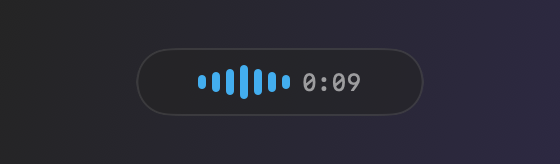
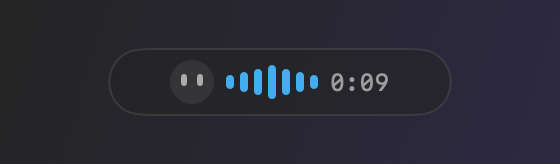
feat: 録音 HUD に話しかける相手の顔を出す
音声入力だと意識すると言い直しや文の途切れが増えるので、人に説明する
つもりで話せるよう、最小表示の左端に目だけの静的な顔を置く。状態や
声の大きさは示さず、設定でオフにできる。

Closes #80

Changed region(s): [[0.3036, 0.3963, 0.6982, 0.6098]]

diff --git a/Sources/RecordingHUDView.swift b/Sources/RecordingHUDView.swift
@@ -62,6 +62,9 @@ struct RecordingHUDView: View {
     // 停止・キャンセルはホバーで出す＝常時は場所を取らない。
     private var minimalContent: some View {
         HStack(spacing: 6) {
+            if model.showsListener {
+                ListenerFaceView()
+            }
             minimalIndicator
             // 11 → 13pt（Issue #191）→ 12pt（#195 の候補 A。13pt は «大きすぎる»）。
             // «12:34» の 5 文字でも折り返さないよう 1 行に固定し、収まらないときだけ少し縮める。
@@ -245,6 +248,37 @@ struct RecordingHUDView: View {
         .buttonStyle(.borderless)
         .help(help)
         .accessibilityLabel(help)
+    }
+}
+
+/// 最小表示の左端に置く «話しかける相手»（Issue #80）。
+///
+/// 音声入力だと意識すると、言い直しや文の途中の «。» が増える。顔が見えていると、人に
+/// 説明するつもりで文を組み立ててから話しやすくなる。**役目はそれだけ**なので、
+/// 状態も声の大きさも示さない——**動かさない・色を変えない**（#146〜#178 で、HUD に
+/// 合図を重ねるほど読めなくなった）。状態は右隣の棒が持つ。
+struct ListenerFaceView: View {
+    /// 顔（丸）の直径。パネル（高さ 34）の上下に 6pt 残す。
+    static var diameter: CGFloat { HUDMetrics.listenerDiameter }
+    /// 目の大きさと間隔。縦長にして «こちらを見ている» 顔に読ませる。
+    static let eyeSize = CGSize(width: 3, height: 6)
+    static let eyeSpacing: CGFloat = 5
+
+    var body: some View {
+        ZStack {
+            Circle()
+                .fill(Color.primary.opacity(0.08))
+            HStack(spacing: Self.eyeSpacing) {
+                Capsule(style: .continuous)
+                    .frame(width: Self.eyeSize.width, height: Self.eyeSize.height)
+                Capsule(style: .continuous)
+                    .frame(width: Self.eyeSize.width, height: Self.eyeSize.height)
+            }
+            .foregroundStyle(Color.primary.opacity(0.7))
+            .offset(y: -1)
+        }
+        .frame(width: Self.diameter, height: Self.diameter)
+        .accessibilityHidden(true)
     }
 }
 

diff --git a/Sources/SettingsStore.swift b/Sources/SettingsStore.swift
@@ -21,6 +21,11 @@ final class SettingsStore: ObservableObject {
     @Published var hudPosition: HUDPosition {
         didSet { UserDefaults.standard.set(hudPosition.rawValue, forKey: "hudPosition") }
     }
+    /// 録音 HUD に «話しかける相手» の顔を出すか（Issue #80）。機械ではなく人に説明する
+    /// つもりで話せるようにするためのもの。慣れて効かなくなったら外せるよう設定にしてある。
+    @Published var hudShowsListener: Bool {
+        didSet { UserDefaults.standard.set(hudShowsListener, forKey: "hudShowsListener") }
+    }
     /// 録音中に画面の縁を光らせるか（Issue #48）。HUD を見ていなくても録音中だと分かる。
     @Published var edgeGlowEnabled: Bool {
         didSet { UserDefaults.standard.set(edgeGlowEnabled, forKey: "edgeGlowEnabled") }
@@ -141,6 +146,7 @@ final class SettingsStore: ObservableObject {
         hudPosition = UserDefaults.standard.string(forKey: "hudPosition")
             .flatMap(HUDPosition.init(rawValue:)) ?? .bottomCenter
         edgeGlowEnabled = UserDefaults.standard.object(forKey: "edgeGlowEnabled") as? Bool ?? true
+        hudShowsListener = UserDefaults.standard.object(forKey: "hudShowsListener") as? Bool ?? true
         resultRetention = Self.storedResultRetention()
         let storedExtra = (UserDefaults.standard.object(forKey: "hotKeyExtraKeyCode") as? Int).flatMap(UInt16.init(exactly:))
         let storedModifiers = Self.storedHotKeyModifiers()

diff --git a/Sources/SettingsView.swift b/Sources/SettingsView.swift
@@ -189,10 +189,17 @@ struct GeneralSettingsView: View {
                     AppController.shared.refreshHUDLayout(positionChanged: true)
                 }
 
+                Toggle("話しかける相手の顔を出す", isOn: $settings.hudShowsListener)
+                    .disabled(settings.hudSize == .hidden)
+                    .onChange(of: settings.hudShowsListener) { _, _ in
+                        AppController.shared.refreshHUDLayout(positionChanged: false)
+                    }
+
                 Toggle("録音中は画面の縁を光らせる", isOn: $settings.edgeGlowEnabled)
 
                 Text("「最小」は声の大きさと経過時間だけの細いバーで、マウスを乗せると停止・キャンセルが出ます。"
                      + "録音を始めてもマイクが一度も音を拾わないときは、棒がオレンジのマイク斜線に替わります。"
+                     + "顔は、機械ではなく人に説明するつもりで話すための «相手» です（動きません）。"
                      + "「非表示」でも開始音・完了音は鳴ります"
                      + "（キャンセルは HUD からのみ。挿入できなかった結果は「挿入」の設定に従って表示します）。"
                      + "画面の縁は、マウスのある画面を録音中はすみれ色、文字起こし中は水色で光らせ、挿入できたら白く光って消えます。")

diff --git a/Sources/RecordingHUDModel.swift b/Sources/RecordingHUDModel.swift
@@ -29,6 +29,9 @@ final class RecordingHUDModel: ObservableObject {
     /// 表示サイズは「最小」か「非表示」だけで、非表示は Controller がパネルごと出さない（Issue #6）。
     @Published var status: AppStatus = .idle
 
+    /// 最小表示の左端に «話しかける相手» の顔を出すか（Issue #80）。設定から注入する。
+    @Published var showsListener = true
+
     /// HUD にマウスが乗っているか。最小表示のとき、これで操作ボタンを出す（Issue #35）。
     @Published var isHovering = false
 
@@ -173,9 +176,9 @@ final class RecordingHUDModel: ObservableObject {
     var panelSize: CGSize {
         if pendingResult != nil { return HUDMetrics.resultPanelSize }
         if usesMinimalBar {
-            return isHovering
-                ? HUDMetrics.minimalHoverPanelSize
-                : HUDMetrics.minimalPanelSize
+            let base = isHovering ? HUDMetrics.minimalHoverPanelSize : HUDMetrics.minimalPanelSize
+            guard showsListener else { return base }
+            return CGSize(width: base.width + HUDMetrics.listenerExtraWidth, height: base.height)
         }
         return HUDMetrics.panelSize
     }

diff --git a/Sources/HUDLayout.swift b/Sources/HUDLayout.swift
@@ -59,6 +59,10 @@ enum HUDMetrics {
     /// 最小表示にマウスが乗って、停止・キャンセルが出ているときのサイズ。
     /// ボタン 2 つぶんの 60pt を足す（`minimalPanelSize` を大きくしても、ボタンの余白は変えない）。
     static let minimalHoverPanelSize = CGSize(width: 204, height: 34)
+    /// 話しかける相手（顔）を出すときに最小表示へ足す幅（Issue #80）。顔の幅＋隣との間隔。
+    /// 顔の直径は View ではなくここに置く（View の静的値は MainActor に隔離されるため）。
+    static let listenerDiameter: CGFloat = 22
+    static let listenerExtraWidth: CGFloat = listenerDiameter + 6
     /// 挿入結果を残しているときのサイズ（本文＋操作ボタンぶん高くする）。
     static let resultPanelSize = CGSize(width: 380, height: 160)
 }

diff --git a/Sources/RecordingHUDController.swift b/Sources/RecordingHUDController.swift
@@ -93,6 +93,7 @@ final class RecordingHUDController {
     /// 環境が変わりうるところで必ずここを通す（Issue #65）。
     func syncEnvironment() {
         model.status = AppState.shared.status
+        model.showsListener = SettingsStore.shared.hudShowsListener
     }
 
     func applyLayout(positionChanged: Bool) {

diff --git a/docs/MANUAL.md b/docs/MANUAL.md
@@ -54,6 +54,8 @@
 
 画面下に細いパネルが出ます。棒の動きと色で、いまの状態が分かります。
 
+左端の顔は «話しかける相手» です。機械に向かうより、人に説明するつもりのほうが言い直しや文の途切れが減ります。顔は動かず、状態も表しません。要らなければ設定の「録音HUD」→「話しかける相手の顔を出す」で消せます。
+
 | HUD | 状態 |
 |---|---|
 | <img class="shot light-only" src="./screens/hud-recording.png#gh-light-mode-only" width="280" alt="録音中の HUD。すみれ色の棒と経過時間"><img class="shot dark-only" src="./screens/hud-recording-dark.png#gh-dark-mode-only" width="280" alt="録音中の HUD。すみれ色の棒と経過時間"> | 録音中。棒が声の大きさで伸び縮みします（すみれ色） |

diff --git a/docs/changelog.md b/docs/changelog.md
@@ -4,6 +4,10 @@
 
 版ごとにまとめています。
 
+## 次の版
+
+- 録音中の HUD に **«話しかける相手» の顔**を出しました。人に説明するつもりで話せるようにするためのものです。設定で消せます（[#80](https://github.com/kenta3578/sarari/issues/80)）
+
 ## v0.2.0（2026-10-01）
 
 - **Xcode なしで入れられる**ようにしました。[Releases](https://github.com/kenta3578/sarari/releases/latest) の zip を展開して「アプリケーション」に移し、開くだけです（[#73](https://github.com/kenta3578/sarari/issues/73)）
